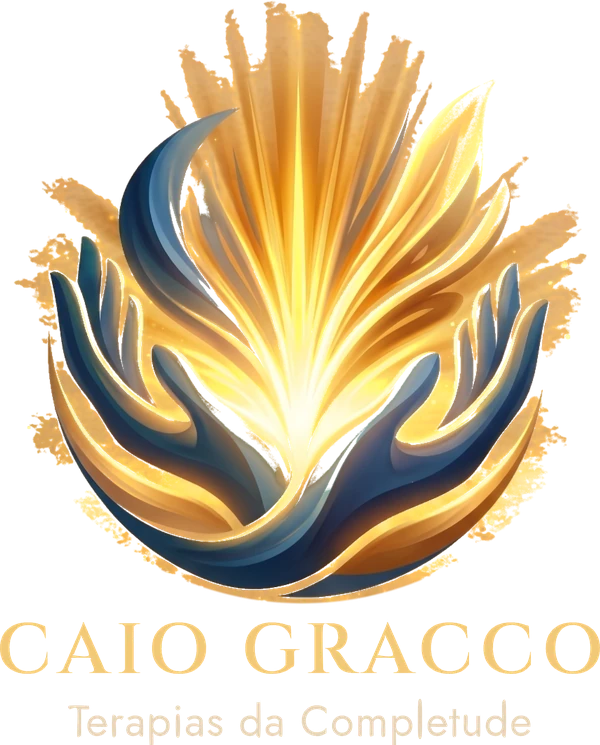
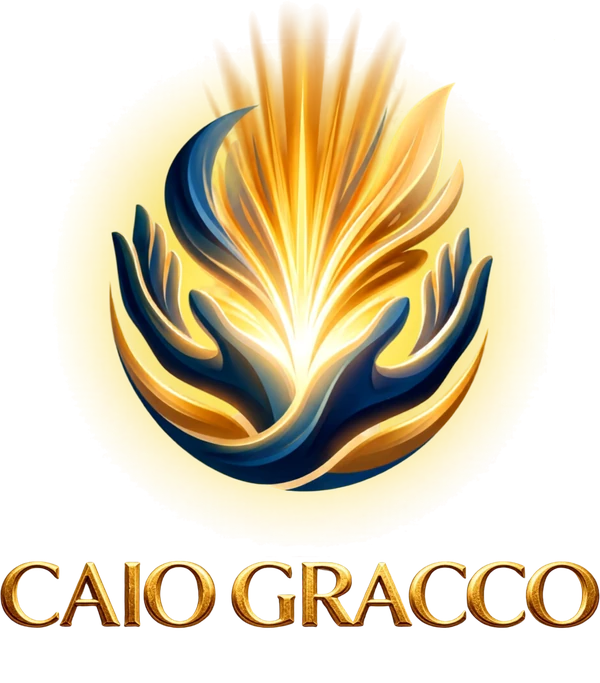
Marca nova do Caio aplicada no site inteiro
Chegou um redesenho do simbolo e do logotipo. Nao e ajuste de nitidez como
da ultima vez: o desenho das maos mudou, ganhou halo de luz, e o nome
passou a ter relevo e contorno.

Refeitos com os mesmos nomes de arquivo, entao nenhum componente mudou de
caminho: simbolo em quatro tamanhos, assinatura horizontal e vertical nas
duas variantes, avatar, favicon, apple-icon, .ico e o cartao de
compartilhamento.

A variante de fundo claro nao existia
O pacote veio so com o slogan em branco, que sobre o creme do site
desaparece. No proprio sistema da marca, "fundo claro" e "fundo escuro"
diferem exatamente nisso e em mais nada. Entao gerei a variante clara
recolorindo so os pixels do slogan para o Azul Profundo, dentro da faixa
onde ele esta, preservando a transparencia de cada pixel para as bordas das
letras continuarem suaves. O dourado do nome nao foi tocado.

O avatar tambem nao veio, e foi montado conforme a pagina 07 do manual:
circulo creme, simbolo a 88% do diametro e 2% para cima, porque a massa do
desenho fica embaixo e o centro geometrico nao e o centro optico.

Proporcoes
A horizontal passou de 5482x1454 para 2233x1002, quase metade da relacao
anterior: o simbolo ficou proporcionalmente muito maior e o nome menor.
As alturas foram recalculadas, e a assinatura do topo subiu de 200 para
216px para "Terapias da Completude" continuar legivel.

O que se perdeu
O nome voltou a ser imagem. O vetor do commit anterior era da letra antiga
[…]

diff --git a/src/components/Logo.tsx b/src/components/Logo.tsx
@@ -16,20 +16,22 @@ type Props = {
  * oficial inteiro, como uma peça só.
  *
  * O manual pede a horizontal justamente em cabeçalho de site (página 02) e
- * fixa o mínimo em 160px de largura (página 03). Por isso a versão compacta
- * para em 200px, com folga sobre o mínimo.
+ * fixa o mínimo em 160px de largura (página 03). A assinatura nova tem o
+ * símbolo proporcionalmente maior, e o slogan encolhe junto: por isso aqui
+ * vai a 216px, acima do mínimo, para "Terapias da Completude" continuar
+ * legível no topo.
  */
 /**
  * Proporção da assinatura montada, para a altura sair sem achatar nada.
  * Não é a do PNG oficial: o nome vem do vetor, que é um pouco mais alto.
  */
-const LARGURA = 5482
-const ALTURA = 1454
+const LARGURA = 2233
+const ALTURA = 1002
 
 export function Logo({ variante = 'escura', compacta = false, className = '' }: Props) {
   const sobreAzul = variante === 'clara'
   const arquivo = sobreAzul ? 'escura' : 'clara'
-  const largura = compacta ? 200 : 244
+  const largura = compacta ? 216 : 264
 
   return (
     <Link
